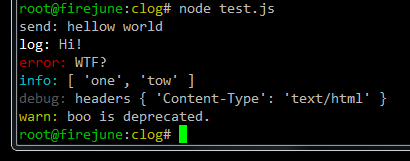
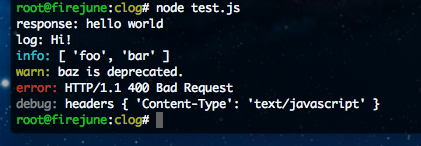
typo correction

diff --git a/test.js b/test.js
@@ -1,10 +1,11 @@
-var log = require('./lib/clog');
+var clog = require('./lib/clog');
 
-log('send', 'hellow', 'world');
-log.log('Hi!');
-log.error('WTF?');
-log.info(['one', 'tow']);
-log.debug('headers', {
-  'Content-Type': 'text/html'
+clog('response', 'hello', 'world');     // custom head
+
+clog.log('Hi!');                        // console.log
+clog.info(['foo', 'bar']);              // console.info
+clog.warn('baz is deprecated.');        // console.warn
+clog.error('HTTP/1.1 400 Bad Request'); // console.error
+clog.debug('headers', {                 // console.debug
+  'Content-Type': 'text/javascript'
 });
-log.warn('boo is deprecated.');

diff --git a/lib/clog.js b/lib/clog.js
@@ -19,7 +19,7 @@ var toArray = function (enu) {
  */
 
 var types = {
-    'log'   : 97
+    'log'   : 00
   , 'error' : 31
   , 'warn'  : 33
   , 'info'  : 36

diff --git a/README.md b/README.md
@@ -17,18 +17,19 @@ NPM
 
     $ npm install clog
 
-#### Code
+### Code
 
-    var clog = require('clog');       // load module
+    var clog = require('clog');
     
-    clog('send', 'hellow', 'world');  // custom head
-    clog.log('Hi!');                  // log
-    clog.error('WTF?');               // error
-    clog.info(['one', 'tow']);        // info
-    clog.debug('headers', {           // debug
-      'Content-Type': 'text/html'
+    clog('response', 'hello', 'world');     // custom head
+
+    clog.log('Hi!');                        // console.log
+    clog.info(['foo', 'bar']);              // console.info
+    clog.warn('baz is deprecated.');        // console.warn
+    clog.error('HTTP/1.1 400 Bad Request'); // console.error
+    clog.debug('headers', {                 // console.debug
+      'Content-Type': 'text/javascript'
     });
-    clog.warn('boo is deprecated.');  // warn
 
 ### Output
 
